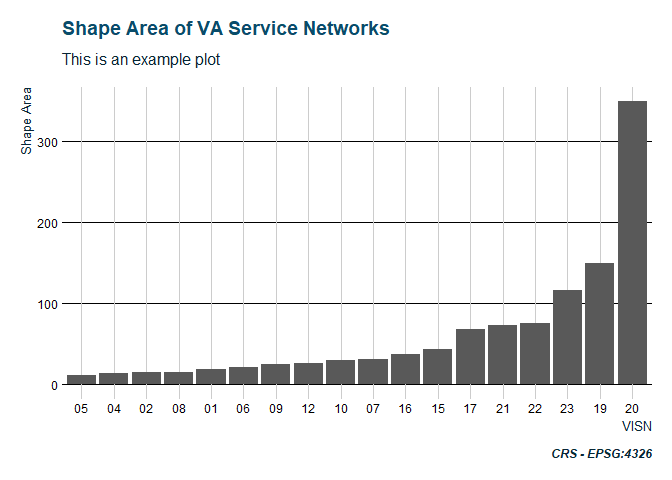
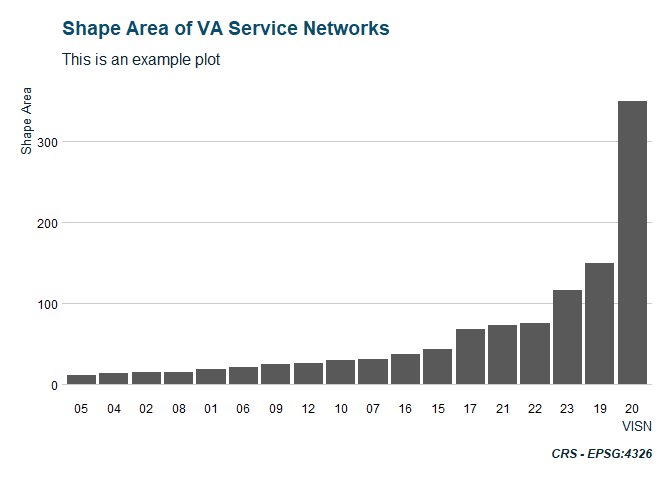
update readme

diff --git a/README.md b/README.md
@@ -1,16 +1,23 @@
 
 <!-- badges: start -->
-[![lifecycle](https://img.shields.io/badge/lifecycle-experimental-orange.svg)](https://www.tidyverse.org/lifecycle/#experimental) [![Travis build status](https://travis-ci.org/iecastro/tidyVA.svg?branch=master)](https://travis-ci.org/iecastro/tidyVA) <!-- badges: end -->
 
-tidyVA
-======
+[![lifecycle](https://img.shields.io/badge/lifecycle-experimental-orange.svg)](https://www.tidyverse.org/lifecycle/#experimental)
+[![Travis build
+status](https://travis-ci.org/iecastro/tidyVA.svg?branch=master)](https://travis-ci.org/iecastro/tidyVA)
+<!-- badges: end -->
 
-The goal of **tidyVA** is to provide [simple features](https://r-spatial.github.io/sf/articles/sf1.html) of Veterans Health Administration geographies. Data included are *tidy* dataframes of VHA spatial data obtained from [data.va.gov](https://www.data.va.gov/dataset/veterans-integrated-services-networks-visn-markets-submarkets-sectors-and-counties).
+# tidyVA
 
-The benefit of simple features in R is that they allow for [tidy spatial analysis](https://edzer.github.io/UseR2017/geostat2018.html#tidyverse-list-columns).
+The goal of **tidyVA** is to provide [simple
+features](https://r-spatial.github.io/sf/articles/sf1.html) of Veterans
+Health Administration geographies. Data included are *tidy* dataframes
+of VHA spatial data obtained from
+[data.va.gov](https://www.data.va.gov/dataset/veterans-integrated-services-networks-visn-markets-submarkets-sectors-and-counties).
 
-Installation
-============
+The benefit of simple features in R is that they allow for [tidy spatial
+analysis](https://edzer.github.io/UseR2017/geostat2018.html#tidyverse-list-columns).
+
+# Installation
 
 You can install **tidyVA** from GitHub with:
 
@@ -18,38 +25,52 @@ You can install **tidyVA** from GitHub with:
 remotes::install_github("iecastro/tidyVA")
 ```
 
-Datasets
-========
+# Datasets
 
-VHA Geographies
----------------
+## VHA Geographies
 
-The following included datasets are sf tibbles of VHA geographies and have a common CRS - EPSG: 4326.
+The following included datasets are sf tibbles of VHA geographies and
+have a common CRS - EPSG: 4326.
 
-Summarized descriptions from [data.va.gov](https://www.data.va.gov/dataset/veterans-integrated-services-networks-visn-markets-submarkets-sectors-and-counties)
+Summarized descriptions from
+[data.va.gov](https://www.data.va.gov/dataset/veterans-integrated-services-networks-visn-markets-submarkets-sectors-and-counties)
 
-`county`: The county layer is the base geographic unit of the VISN-Market-Submarket-Sector-County hierarchy.
+`county`: The county layer is the base geographic unit of the
+VISN-Market-Submarket-Sector-County hierarchy.
 
-`sector`: A sector is a cluster of geographically adjacent counties within a VA Submarket.
+`sector`: A sector is a cluster of geographically adjacent counties
+within a VA Submarket.
 
-`submarket`: Submarkets reflect a clustering of the enrollee population within a market and are an aggregation of Sectors.
+`submarket`: Submarkets reflect a clustering of the enrollee population
+within a market and are an aggregation of Sectors.
 
-`market`: Each market is built from submarkets and represent an aggregated geographic area having sufficient population and geographic size to benefit from planning healthcare services. Markets cross state borders where neccesary to keep the catchment area within the same market
+`market`: Each market is built from submarkets and represent an
+aggregated geographic area having sufficient population and geographic
+size to benefit from planning healthcare services. Markets cross state
+borders where neccesary to keep the catchment area within the same
+market
 
-`visn`: VISNs are the upper echelon in the VHA hierarchy. VISN boundaries align with those of their constituent markets and can span across non-contiguous areas.
+`visn`: VISNs are the upper echelon in the VHA hierarchy. VISN
+boundaries align with those of their constituent markets and can span
+across non-contiguous areas.
 
 ### Other Data
 
-`states`: Simple features of states and territories of the US (CRS - EPSG: 4326). Used for spatial joins and geometric manipulations.
+`states`: Simple features of states and territories of the US (CRS -
+EPSG: 4326). Used for spatial joins and geometric manipulations.
 
-`VAloc`: Simple features (CRS - EPSG: 4326) of all VA facilities - from all Administrations: Veterans Health Administration, Veterans Benefits Administration, and National Cemetery Administration
+`VAloc`: Simple features (CRS - EPSG: 4326) of all VA facilities - from
+all Administrations: Veterans Health Administration, Veterans Benefits
+Administration, and National Cemetery Administration
 
-Example
--------
+## Example
 
 This is a basic example which shows you how to solve a common problem:
 
-VHA Submarkets are an aggregation of Sectors; and Sectors are comprised of one or more counties. Since each VISN is defined in a hierarchy, this dataset contains attributes of all echelons above submarket - that is, Market and VISN.
+VHA Submarkets are an aggregation of Sectors; and Sectors are comprised
+of one or more counties. Since each VISN is defined in a hierarchy, this
+dataset contains attributes of all echelons above submarket - that is,
+Market and VISN.
 
 ``` r
 library(ggplot2)
@@ -58,12 +79,14 @@ library(tidyVA)
 
 data("submarket")
 
-ggplot() + geom_sf(data=submarket, fill = NA)
+ggplot() + 
+  geom_sf(data = submarket, fill = NA)
 ```
 
 <img src="man/figures/README-example-1.png" width="100%" />
 
-Although accurate, this output is not very easy to work with. But, since this is in tidy format, we can easily filter and manipulate the data.
+Although accurate, this output is not very easy to work with. But, since
+this is in tidy format, we can easily filter and manipulate the data.
 
 ``` r
 glimpse(submarket)
@@ -78,7 +101,8 @@ glimpse(submarket)
 ```
 
 ``` r
-visn2 <- submarket %>% filter(VISN == "02")
+visn2 <- submarket %>% 
+  filter(VISN == "02")
 
 visn2
 #> Simple feature collection with 10 features and 5 fields
@@ -104,104 +128,99 @@ visn2
 
 ``` r
 ggplot() + 
-  geom_sf(data=visn2, aes(fill = MARKET), color = NA) +
+  geom_sf(data = visn2, aes(fill = MARKET), color = NA) +
   geom_sf(data = visn2, fill = NA, color = "#ffffff", size = .25)
 ```
 
 <img src="man/figures/README-unnamed-chunk-4-1.png" width="100%" />
 
-Functions
-=========
-
-`shift_geo()` will project and reposition Alaska and Hawaii, When supplied a complete dataset (from VHA Geographies).
-
-`theme_va()` is a ggplot theme with some default colors and plotting parameters. The core of this function is `theme_ipsum` from [hrbrthemes](https://hrbrmstr.github.io/hrbrthemes/), with some modifications and defaults.
-
-### Harvest functions
-
-These functions serve as a homebrewed API for fetching Hospital Performance datasets. VA Open Data uses a harvesting framework from [DKAN](https://docs.getdkan.com/en/latest/components/harvest.html). Currently the [VHA Harvest](https://www.data.va.gov/harvest_source/vha-harvest-datasets) only includes hospital performance datasets.
-
-`harvest_get()` will return a tibble of URLs and attributes for each dataset.
-
-`harvest_wrngl()` will import and tidy datasets from an object created with `harvest_get`
-
-Examples
---------
+# Functions
 
 ### `shift_geo`
 
+`shift_geo()` will project and reposition Alaska and Hawaii, When
+supplied a complete dataset (from VHA Geographies).
+
 ``` r
 shift_geo(submarket) %>% 
-  ggplot() + geom_sf(fill = NA) +
+  ggplot() + 
+  geom_sf(fill = NA) +
   theme_minimal()
 #> Please note: Alaska and Hawaii are being shifted and are not to scale.
 ```
 
 <img src="man/figures/README-unnamed-chunk-5-1.png" width="100%" />
 
-### `theme_va`
+### `theme_va()`
+
+`theme_va()` is a ggplot theme with some default colors and plotting
+parameters. The core of this function is `theme_ipsum` from
+[hrbrthemes](https://hrbrmstr.github.io/hrbrthemes/), with some
+modifications and defaults.
 
 ``` r
 data("visn")
 
-visn %>% ggplot(aes(reorder(VISN,Shape_Area), Shape_Area)) +
-  geom_col() + labs(x = "VISN", y = "Shape Area", caption = "CRS - EPSG:4326") +
-  ggtitle("Shape Area of VA Service Networks", subtitle = "This is an example plot") +
-  theme_va(grid = "X")
+visn %>% 
+  ggplot(aes(reorder(VISN,Shape_Area), Shape_Area)) +
+  geom_col() + 
+  labs(x = "VISN", y = "Shape Area", 
+       caption = "CRS - EPSG:4326") +
+  ggtitle("Shape Area of VA Service Networks", 
+          subtitle = "This is an example plot") +
+  theme_va(grid = "Y")
 ```
 
 <img src="man/figures/README-unnamed-chunk-6-1.png" width="100%" />
 
-### `harvest_get`
+### `sail_tidy`
 
-This function is a wrapper for `filter` so that queries can be built. If no arguments are entered, all available datasets are returned.
-
-``` r
-links <- harvest_get(Year == "2018" & VISN == "VISN 2")
-
-links
-#> # A tibble: 22 x 6
-#>    VISN   Site     downloadURL                         format Year  Quarter
-#>    <chr>  <chr>    <chr>                               <chr>  <chr> <chr>  
-#>  1 VISN 2 Albany   https://www.va.gov/QUALITYOFCARE/S~ XLS    2018  1      
-#>  2 VISN 2 Bath     https://www.va.gov/QUALITYOFCARE/S~ XLS    2018  1      
-#>  3 VISN 2 Bronx    https://www.va.gov/QUALITYOFCARE/S~ XLS    2018  1      
-#>  4 VISN 2 Brooklyn https://www.va.gov/QUALITYOFCARE/S~ XLS    2018  1      
-#>  5 VISN 2 Buffalo  https://www.va.gov/QUALITYOFCARE/S~ XLS    2018  1      
-#>  6 VISN 2 Cananda~ https://www.va.gov/QUALITYOFCARE/S~ XLS    2018  1      
-#>  7 VISN 2 East Or~ https://www.va.gov/QUALITYOFCARE/S~ XLS    2018  1      
-#>  8 VISN 2 Hudson ~ https://www.va.gov/QUALITYOFCARE/S~ XLS    2018  1      
-#>  9 VISN 2 New York https://www.va.gov/QUALITYOFCARE/S~ XLS    2018  1      
-#> 10 VISN 2 Northpo~ https://www.va.gov/QUALITYOFCARE/S~ XLS    2018  1      
-#> # ... with 12 more rows
-```
-
-### `harvest_wrngl`
+`sail_tidy` will return a tibble of VA SAIL metrics when provided a
+[data table
+url](https://www.va.gov/QUALITYOFCARE/measure-up/Strategic_Analytics_for_Improvement_and_Learning_SAIL.asp).
 
 ``` r
-data <- harvest_wrngl(links) #object created with harvest_get()
-
-data
-#> # A tibble: 1,562 x 9
-#>    Measure `Measure Unit` Benchmark `10th-50th-90th~ Site.x Value VISN 
-#>    <chr>   <chr>          <chr>     <chr>            <chr>  <chr> <chr>
-#>  1 Acute ~ <NA>           <NA>      <NA>             Albany <NA>  VISN~
-#>  2 1. Acu~ O/E            0.480     0.480 - 0.890 -~ Albany 0.943 VISN~
-#>  3 2. Acu~ O/E            0.727     0.727 - 0.960 -~ Albany 0.907 VISN~
-#>  4 a. AMI~ %              7.003     7.003 - 7.967 -~ Albany 8.320 VISN~
-#>  5 b. CHF~ %              4.870     4.870 - 5.970 -~ Albany 7.201 VISN~
-#>  6 c. Pne~ %              17.195    17.195 - 18.393~ Albany 18.2~ VISN~
-#>  7 d. COP~ %              3.757     3.757 - 4.725 -~ Albany 5.244 VISN~
-#>  8 Avoida~ <NA>           <NA>      <NA>             Albany <NA>  VISN~
-#>  9 1. In-~ O/E            0.231     0.231 - 0.922 -~ Albany 1.066 VISN~
-#> 10 2. Hea~ <NA>           <NA>      <NA>             Albany <NA>  VISN~
-#> # ... with 1,552 more rows, and 2 more variables: Year <chr>,
-#> #   Quarter <chr>
+sail_tidy("https://www.va.gov/QUALITYOFCARE/SAIL_FY19_Q1/SAIL-5_clarksburg_fy19q1.xlsx")
+#> # A tibble: 79 x 6
+#>    Measure          `Measure Unit` `Best 10%` `10th-50th-90th ~ Site  Value
+#>    <chr>            <chr>          <chr>      <chr>             <chr> <chr>
+#>  1 Acute care mort~ <NA>           <NA>       <NA>              Clar~ <NA> 
+#>  2 1. Acute care S~ O/E            0.469      0.469 - 0.857 - ~ Clar~ 1.360
+#>  3 2. Acute care 3~ O/E            0.740      0.740 - 0.952 - ~ Clar~ 1.109
+#>  4 a. AMI RSMR      %              7.219      7.219 - 7.666 - ~ Clar~ 8.106
+#>  5 b. CHF RSMR      %              5.676      5.676 - 6.820 - ~ Clar~ 8.300
+#>  6 c. Pneumonia RS~ %              7.820      7.820 - 9.026 - ~ Clar~ 11.9~
+#>  7 d. COPD RSMR     %              4.402      4.402 - 5.942 - ~ Clar~ 5.965
+#>  8 e. Stroke RSMR   %              5.134      5.134 - 5.933 - ~ Clar~ 5.531
+#>  9 Avoidable adver~ <NA>           <NA>       <NA>              Clar~ <NA> 
+#> 10 1. In-hospital ~ O/E            0.000      0.000 - 0.834 - ~ Clar~ 1.580
+#> # ... with 69 more rows
 ```
 
-Info
-====
+### Harvest functions
 
-Development of this package is partly supported by a research grant from the National Institute on Alcohol Abuse and Alcoholism - NIH Grant \#R34AA026745-01.
+``` 
+  These functions have been removed from the namespace due to the VA Open Data site being taken down.
+```
 
-This product is not endorsed nor certified by either the VA or NIH/NIAAA.
+> These functions serve as a homebrewed API for fetching Hospital
+> Performance datasets. VA Open Data uses a harvesting framework from
+> [DKAN](https://docs.getdkan.com/en/latest/components/harvest.html).
+> Currently the [VHA
+> Harvest](https://www.data.va.gov/harvest_source/vha-harvest-datasets)
+> only includes hospital performance datasets.
+> 
+> `harvest_get()` will return a tibble of URLs and attributes for each
+> dataset.
+> 
+> `harvest_wrngl()` will import and tidy datasets from an object created
+> with `harvest_get`
+
+# Info
+
+Development of this package is partly supported by a research grant from
+the National Institute on Alcohol Abuse and Alcoholism - NIH Grant
+\#R34AA026745-01.
+
+This product is not endorsed nor certified by either the VA or
+NIH/NIAAA.
